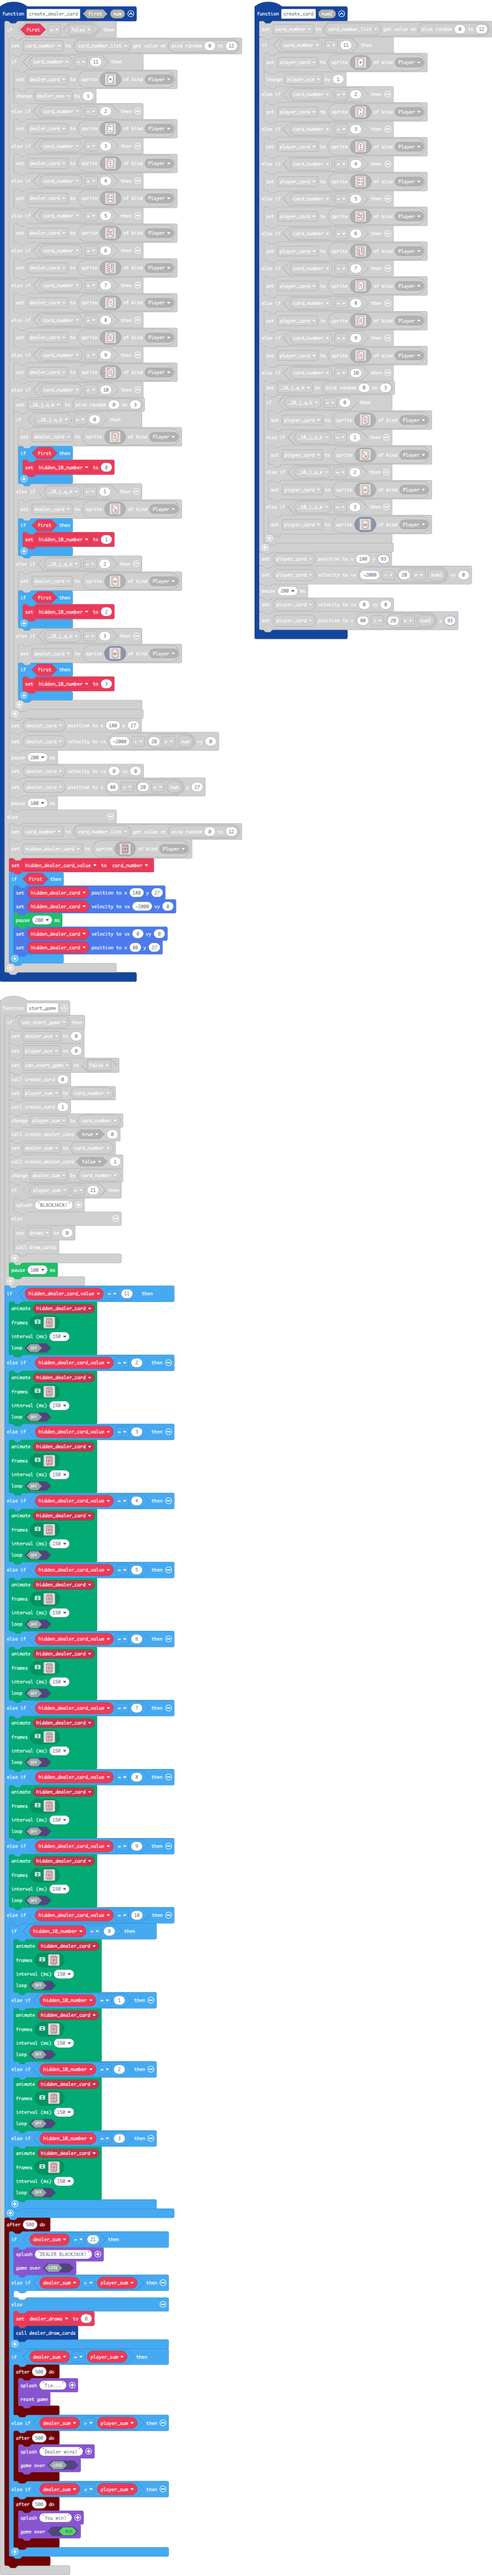
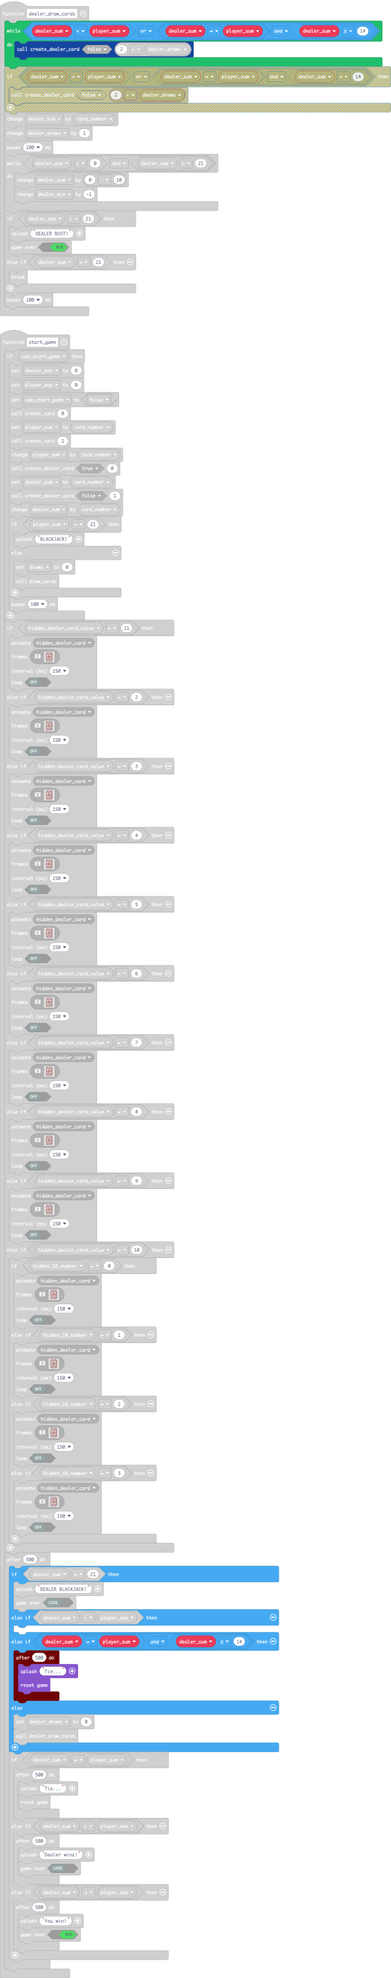
Update main.blocks, main.ts

diff --git a/main.ts b/main.ts
@@ -1231,10 +1231,8 @@ function create_card (num2: number) {
     player_card.setPosition(80 + 20 * num2, 93)
 }
 function dealer_draw_cards () {
-    while (true) {
-        if (dealer_sum < player_sum || dealer_sum == player_sum && dealer_sum < 14) {
-            create_dealer_card(false, 2 + dealer_draws)
-        }
+    while (dealer_sum < player_sum || dealer_sum == player_sum && dealer_sum <= 14) {
+        create_dealer_card(false, 2 + dealer_draws)
         dealer_sum += card_number
         dealer_draws += 1
         pause(100)
@@ -3504,6 +3502,11 @@ function start_game () {
             game.gameOver(false)
         } else if (dealer_sum > player_sum) {
         	
+        } else if (dealer_sum == player_sum && dealer_sum <= 14) {
+            timer.after(500, function () {
+                game.splash("Tie...")
+                game.reset()
+            })
         } else {
             dealer_draws = 0
             dealer_draw_cards()
